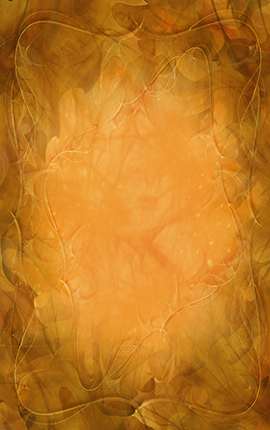
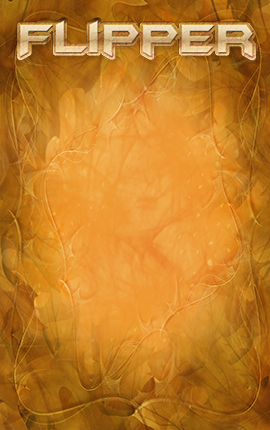
коміт

Changed region(s): [[0.0593, 0.0302, 0.9481, 0.1512]]

diff --git a/src/main/webapp/js/Tab/Flipper.js b/src/main/webapp/js/Tab/Flipper.js
@@ -1,9 +1,9 @@
 var levelSound = new Audio;
-levelSound.src = 'sound/Flip/levelComplete.wav';
+levelSound.src = 'sound/Flipper/levelComplete.wav';
 var flipSound = new Audio;
-flipSound.src = 'sound/Flip/flip.wav';
+flipSound.src = 'sound/Flipper/flip.wav';
 var gameOver = new Audio;
-gameOver.src = 'sound/Flip/gameOver.wav';
+gameOver.src = 'sound/Flipper/gameOver.wav';
 
 var lock = false;
 
@@ -21,14 +21,13 @@ function send(elem) {
 }
 
 function getStatus() {
-	$.post("FlipStatus.html", function(resp) {
+	$.post("FlipperStatus.html", function(resp) {
 		if (resp.gameOver == true) {
 			gameOver.play();
 			lock = true;
-			alert('Game Over');
 		} else if (resp.nextLevel == true) {
 			levelSound.play();
-			tabGoTo("FlipNextLevel.html");
+			tabGoTo("FlipperNextLevel.html");
 		}
 	});
 }
@@ -37,19 +36,19 @@ function flip(elem) {
 	flipSound.play();
 	var line = parseInt(elem.id.charAt(0));
 	var colum = parseInt(elem.id.charAt(1));
-	flipUI($('#flip #field #' + line + colum));
-	flipUI($('#flip #field #' + line + (colum - 1)));
-	flipUI($('#flip #field #' + line + (colum + 1)));
-	flipUI($('#flip #field #' + (line - 1) + colum));
-	flipUI($('#flip #field #' + (line + 1) + colum));
+	flipUI($('#flipper #field #' + line + colum));
+	flipUI($('#flipper #field #' + line + (colum - 1)));
+	flipUI($('#flipper #field #' + line + (colum + 1)));
+	flipUI($('#flipper #field #' + (line - 1) + colum));
+	flipUI($('#flipper #field #' + (line + 1) + colum));
 }
 
 function flipUI($elem) {
-	$elem.flip({
-		direction : "rl",
-		speed : 200,
-		dontChangeColor : true,
-	});
+//	$elem.flip({
+//		direction : "rl",
+//		speed : 200,
+//		dontChangeColor : true,
+//	});
 	if ($elem.attr('class') == 'white') {
 		$elem.attr('class', 'black');
 	} else {

diff --git a/src/main/webapp/css/Tab/Flipper.css b/src/main/webapp/css/Tab/Flipper.css
@@ -1,0 +1,52 @@
+#flipper {
+	background-image: url('../../images/Tab/flipper/background.png');
+	background-repeat: no-repeat;
+}
+
+#flipper #field {
+	margin: 120px auto;
+}
+
+#flipper #field div {
+	height: 30px;
+	width: 30px;
+}
+
+#flipper #field .black {
+	background-image: url('../../images/Tab/flipper/black.png');
+	background-repeat: no-repeat;
+}
+
+#flipper #field .white {
+	background-image: url('../../images/Tab/flipper/white.png');
+	background-repeat: no-repeat;
+}
+
+#flipper .flipperButton {
+	background-image: url('../../images/Tab/flipper/button_sprite.png');
+	background-repeat: no-repeat;
+	height: 30px;
+	width: 115px;
+	cursor: pointer;
+	position: absolute;
+	margin-bottom: 30px;
+	text-align: center;
+}
+
+#flipper .flipperButton:hover {
+	background: url('../../images/Tab/flipper/button_sprite.png') bottom;
+}
+
+#flipper .flipperButton p {
+	font-weight: bold;
+	color: brown;
+	margin-top: 5px;
+}
+
+#flipper #newGame {
+	margin-left: 10px;
+}
+
+#flipper #reset {
+	margin-left: 140px;
+}

diff --git a/src/main/java/epam/ph/sg/controllers/FlipperController.java b/src/main/java/epam/ph/sg/controllers/FlipperController.java
@@ -9,55 +9,55 @@ import org.springframework.web.bind.annotation.RequestParam;
 import org.springframework.web.bind.annotation.ResponseBody;
 
 import epam.ph.sg.models.User;
-import epam.ph.sg.tab.flip.FlipGame;
-import epam.ph.sg.tab.flip.FlipStatus;
+import epam.ph.sg.tab.flipper.FlipperGame;
+import epam.ph.sg.tab.flipper.FlipperStatus;
 
 @Controller
-public class FlipController {
-	private static Logger log = Logger.getLogger(FlipController.class);
+public class FlipperController {
+	private static Logger log = Logger.getLogger(FlipperController.class);
 
-	@RequestMapping("/FlipGame.html")
+	@RequestMapping("/FlipperGame.html")
 	public String game(HttpServletRequest request) {
 		User user = (User) request.getSession().getAttribute("user");
 		log.info(request.getRequestURI() + " request received. User id="
 				+ user.getId());
-		FlipGame game = (FlipGame) request.getSession()
-				.getAttribute("flipGame");
+		FlipperGame game = (FlipperGame) request.getSession()
+				.getAttribute("flipperGame");
 		if (game == null) {
-			request.getSession().setAttribute("flipGame", new FlipGame(1));
+			request.getSession().setAttribute("flipperGame", new FlipperGame(1));
 		}
-		return "Tab/Flip";
+		return "Tab/Flipper";
 	}
 
-	@RequestMapping("/FlipNewGame.html")
+	@RequestMapping("/FlipperNewGame.html")
 	public String newGame(HttpServletRequest request) {
 		User user = (User) request.getSession().getAttribute("user");
 		log.info(request.getRequestURI() + " request received. User id="
 				+ user.getId());
-		request.getSession().setAttribute("flipGame", new FlipGame(1));
-		return "Tab/Flip";
+		request.getSession().setAttribute("flipperGame", new FlipperGame(1));
+		return "Tab/Flipper";
 	}
 
-	@RequestMapping("/FlipNextLevel.html")
+	@RequestMapping("/FlipperNextLevel.html")
 	public String gameLevel(HttpServletRequest request) {
 		User user = (User) request.getSession().getAttribute("user");
 		log.info(request.getRequestURI() + " request received. User id="
 				+ user.getId());
-		FlipGame game = (FlipGame) request.getSession()
-				.getAttribute("flipGame");
+		FlipperGame game = (FlipperGame) request.getSession()
+				.getAttribute("flipperGame");
 		game.nextLevel();
-		return "Tab/Flip";
+		return "Tab/Flipper";
 	}
 
-	@RequestMapping("/FlipResetLevel.html")
+	@RequestMapping("/FlipperResetLevel.html")
 	public String resetGame(HttpServletRequest request) {
 		User user = (User) request.getSession().getAttribute("user");
 		log.info(request.getRequestURI() + " request received. User id="
 				+ user.getId());
-		FlipGame game = (FlipGame) request.getSession()
-				.getAttribute("flipGame");
+		FlipperGame game = (FlipperGame) request.getSession()
+				.getAttribute("flipperGame");
 		game.resetLevel();
-		return "Tab/Flip";
+		return "Tab/Flipper";
 	}
 
 	@RequestMapping("/Flip.html")
@@ -68,20 +68,20 @@ public class FlipController {
 				+ user.getId() + ". Position: " + id);
 		int line = Integer.valueOf(id.substring(0, 1));
 		int colum = Integer.valueOf(id.substring(1));
-		FlipGame game = (FlipGame) request.getSession()
-				.getAttribute("flipGame");
+		FlipperGame game = (FlipperGame) request.getSession()
+				.getAttribute("flipperGame");
 		game.flip(line, colum);
 		return true;
 	}
 
-	@RequestMapping("FlipStatus.html")
+	@RequestMapping("FlipperStatus.html")
 	public @ResponseBody
-	FlipStatus getStatus(HttpServletRequest request) {
+	FlipperStatus getStatus(HttpServletRequest request) {
 		User user = (User) request.getSession().getAttribute("user");
 		log.info(request.getRequestURI() + " request received. User id="
 				+ user.getId());
-		FlipGame game = (FlipGame) request.getSession()
-				.getAttribute("flipGame");
+		FlipperGame game = (FlipperGame) request.getSession()
+				.getAttribute("flipperGame");
 		return game.getStatus();
 	}
 }

diff --git a/src/main/java/epam/ph/sg/tab/flipper/FlipperGame.java b/src/main/java/epam/ph/sg/tab/flipper/FlipperGame.java
@@ -1,18 +1,18 @@
-package epam.ph.sg.tab.flip;
+package epam.ph.sg.tab.flipper;
 
 /**
  * @author Paul Michael T.
  */
 import java.util.List;
 
-public class FlipGame {
+public class FlipperGame {
 	private int level;
-	private List<List<FlipBox>> field;
-	private FlipStatus status = new FlipStatus();
+	private List<List<FlipperBox>> field;
+	private FlipperStatus status = new FlipperStatus();
 
-	public FlipGame(int level) {
+	public FlipperGame(int level) {
 		this.level = level;
-		this.field = FlipMapCreator.prepare(level);
+		this.field = FlipperMapCreator.prepare(level);
 	}
 
 	public void flip(int line, int colum) {
@@ -39,8 +39,8 @@ public class FlipGame {
 	}
 
 	private boolean isNextLevel() {
-		for (List<FlipBox> line : field) {
-			for (FlipBox flipBox : line) {
+		for (List<FlipperBox> line : field) {
+			for (FlipperBox flipBox : line) {
 				if (flipBox.getValue() == 1) {
 					return false;
 				}
@@ -52,7 +52,7 @@ public class FlipGame {
 	public void nextLevel() {
 		level++;
 		if (level < 13) {
-			field = FlipMapCreator.prepare(level);
+			field = FlipperMapCreator.prepare(level);
 			status.setNextLevel(false);
 		} else {
 			status.setGameOver(true);
@@ -60,7 +60,7 @@ public class FlipGame {
 	}
 
 	public void resetLevel() {
-		field = FlipMapCreator.prepare(level);
+		field = FlipperMapCreator.prepare(level);
 	}
 	
 	/**
@@ -73,14 +73,14 @@ public class FlipGame {
 	/**
 	 * @return the field
 	 */
-	public List<List<FlipBox>> getField() {
+	public List<List<FlipperBox>> getField() {
 		return field;
 	}
 
 	/**
 	 * @return the status
 	 */
-	public FlipStatus getStatus() {
+	public FlipperStatus getStatus() {
 		return status;
 	}
 }

diff --git a/src/main/java/epam/ph/sg/tab/flipper/FlipperMapCreator.java b/src/main/java/epam/ph/sg/tab/flipper/FlipperMapCreator.java
@@ -1,4 +1,4 @@
-package epam.ph.sg.tab.flip;
+package epam.ph.sg.tab.flipper;
 
 import java.io.BufferedReader;
 import java.io.FileNotFoundException;
@@ -10,16 +10,16 @@ import java.util.List;
 /**
  * @author Paul Michael T.
  */
-public class FlipMapCreator {
+public class FlipperMapCreator {
 
-	public static List<List<FlipBox>> prepare(int level) {
+	public static List<List<FlipperBox>> prepare(int level) {
 		List<String> lines = read(getFileAddress(level));
-		List<List<FlipBox>> map = new ArrayList<List<FlipBox>>();
+		List<List<FlipperBox>> map = new ArrayList<List<FlipperBox>>();
 		for (int i = 0; i < lines.size(); i++) {
-			List<FlipBox> mapLine = new ArrayList<FlipBox>();
+			List<FlipperBox> mapLine = new ArrayList<FlipperBox>();
 			char[] valueCharArray = lines.get(i).toCharArray();
 			for (int j = 0; j < valueCharArray.length; j++) {
-				mapLine.add(new FlipBox(Integer.valueOf(String
+				mapLine.add(new FlipperBox(Integer.valueOf(String
 						.valueOf(valueCharArray[j]))));
 			}
 			map.add(mapLine);
@@ -28,8 +28,8 @@ public class FlipMapCreator {
 	}
 
 	private static String getFileAddress(int level) {
-		String adr = FlipMapCreator.class.getClassLoader()
-				.getResource("/flip/level_" + level + ".map").getFile()
+		String adr = FlipperMapCreator.class.getClassLoader()
+				.getResource("/flipper/level_" + level + ".map").getFile()
 				.replaceAll("%20", " ");
 		return adr;
 	}

diff --git a/src/main/java/epam/ph/sg/tab/flipper/FlipperBox.java b/src/main/java/epam/ph/sg/tab/flipper/FlipperBox.java
@@ -1,9 +1,9 @@
-package epam.ph.sg.tab.flip;
+package epam.ph.sg.tab.flipper;
 
-public class FlipBox {
+public class FlipperBox {
 	private int value;
 
-	public FlipBox(int value) {
+	public FlipperBox(int value) {
 		this.value = value;
 	}
 	

diff --git a/src/main/java/epam/ph/sg/tab/flipper/FlipperStatus.java b/src/main/java/epam/ph/sg/tab/flipper/FlipperStatus.java
@@ -1,6 +1,6 @@
-package epam.ph.sg.tab.flip;
+package epam.ph.sg.tab.flipper;
 
-public class FlipStatus {
+public class FlipperStatus {
 	private boolean gameOver = false;
 	private boolean nextLevel = false;
 	/**
